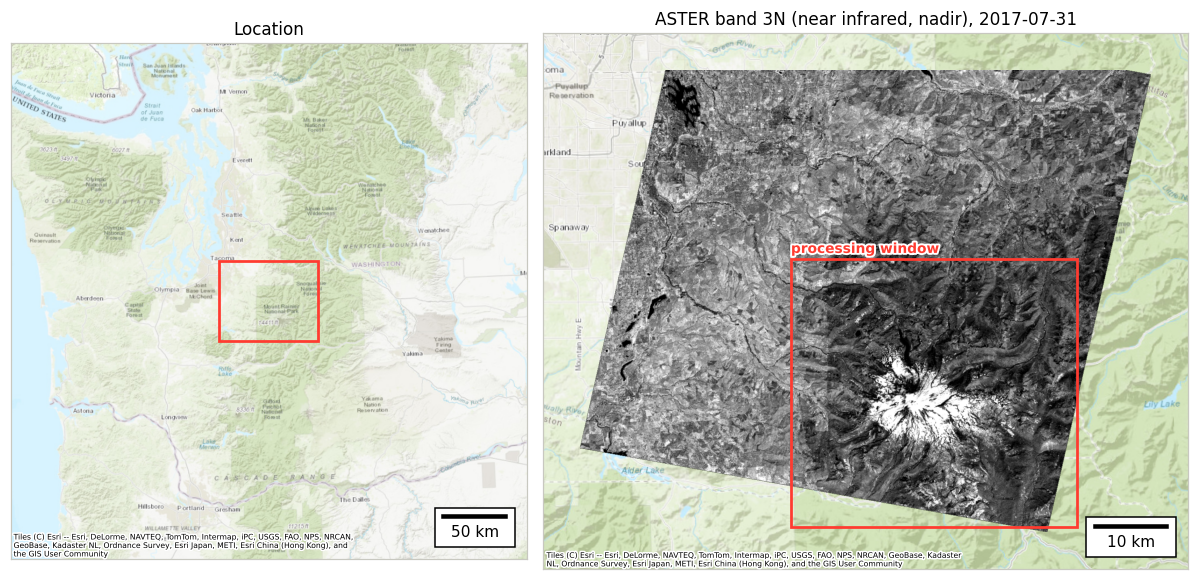
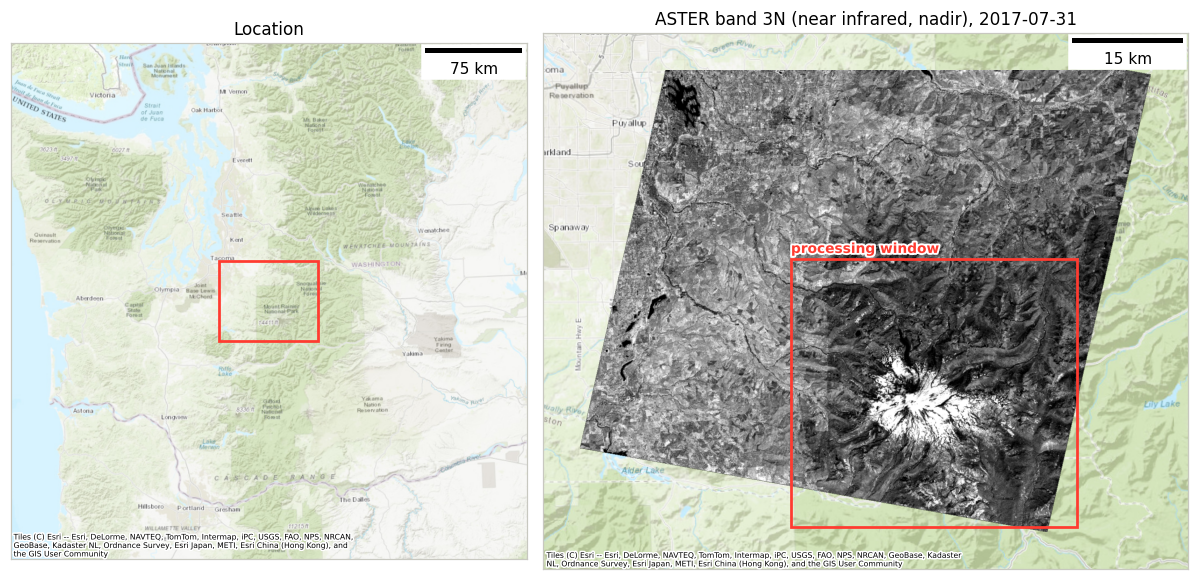
Add a scale bar to every map in the tutorials
The tutorials' own map figures (image pairs, DEM hillshades, the live
stereo map, the scene maps) had no scale bar, while asp-plot's report
figures do. They now all use asp-plot's convention, matplotlib-
scalebar's ScaleBar: meters for a raster on a map, from its pixel size
times any downsampling, and a fixed 1000-pixel bar for an image not
on a map yet (Tutorial 1's raw images), where matplotlib-scalebar
otherwise picks "750 px" for one panel and "1 kpx" for the other.

Checked by rendering each helper on Tutorials 1 and 2's outputs, and
by running Tutorial 1's stereo through run_stereo locally.

diff --git a/notebooks/utils.py b/notebooks/utils.py
@@ -5,8 +5,41 @@ import re
 from pathlib import Path
 
 
+def add_scale_bar(ax, fn, shown_width):
+    """A scale bar for a raster drawn in pixel coordinates, as asp-plot draws them.
+
+    `shown_width` is the width of the array as drawn, in pixels, so a
+    downsampled image gets the right scale. A raster on a map (one with a
+    projected CRS, here UTM) gets a bar in meters; an image that is not on a
+    map yet (a raw satellite image) gets a bar in its own pixels.
+    """
+    from matplotlib_scalebar.scalebar import ScaleBar
+    from osgeo import gdal
+
+    gdal.UseExceptions()
+    ds = gdal.Open(str(fn))
+    per_pixel = ds.RasterXSize / shown_width
+    srs = ds.GetSpatialRef()
+    if srs is not None and srs.IsProjected():
+        ax.add_artist(ScaleBar(abs(ds.GetGeoTransform()[1]) * srs.GetLinearUnits() * per_pixel))
+    else:
+        ax.add_artist(pixel_scale_bar(per_pixel))
+
+
+def pixel_scale_bar(per_pixel):
+    """A 1000-pixel scale bar for an image not on a map, `per_pixel` image pixels to a drawn one.
+
+    A fixed length and a plain label, so two images side by side get the same
+    bar ("1000 px", not "750 px" on one and "1 kpx" on the other).
+    """
+    from matplotlib_scalebar.scalebar import ScaleBar
+
+    return ScaleBar(per_pixel, units="px", dimension="pixel-length", fixed_value=1000, fixed_units="px",
+                    scale_formatter=lambda value, unit: f"{value} {unit}")
+
+
 def show_image_pair(left, right, titles, downsample=8):
-    """Show two images side by side in grayscale, downsampled for display.
+    """Show two images side by side in grayscale, downsampled for display, each with a scale bar.
 
     Uses asp_plot's `Raster` to read each image and `Plotter.plot_array` to
     draw it with a percentile contrast stretch.
@@ -19,6 +52,7 @@ def show_image_pair(left, right, titles, downsample=8):
     for ax, fn, title in zip(axes, (left, right), titles):
         image = Raster(fn, downsample=downsample).read_array()
         plotter.plot_array(ax, image, cmap="gray", add_cbar=False)
+        add_scale_bar(ax, fn, image.shape[1])
         ax.set_title(title)
         ax.set_axis_off()
     plt.tight_layout()
@@ -52,11 +86,12 @@ def show_dem_hillshade(dem_fn, title="Stereo DEM", hillshade_fn=None):
     import matplotlib.pyplot as plt
     from asp_plot.utils import Plotter, Raster
 
-    dem = Raster(dem_fn)
+    dem = Raster(dem_fn).read_array()
     plotter = Plotter()
     fig, ax = plt.subplots(figsize=(8, 7))
     plotter.plot_array(ax, multidirectional_hillshade(dem_fn, hillshade_fn), cmap="gray", add_cbar=False)
-    plotter.plot_array(ax, dem.read_array(), cmap="viridis", alpha=0.5, cbar_label="Elevation (m HAE)")
+    plotter.plot_array(ax, dem, cmap="viridis", alpha=0.5, cbar_label="Elevation (m HAE)")
+    add_scale_bar(ax, dem_fn, dem.shape[1])
     ax.set_title(title)
     ax.set_axis_off()
     plt.show()
@@ -74,7 +109,9 @@ def show_hillshades(dem_fns, titles):
     plotter = Plotter()
     fig, axes = plt.subplots(1, len(dem_fns), figsize=(5.5 * len(dem_fns), 5.5))
     for ax, fn, title in zip(axes, dem_fns, titles):
-        plotter.plot_array(ax, Raster(fn).hillshade(), cmap="gray", add_cbar=False)
+        shade = Raster(fn).hillshade()
+        plotter.plot_array(ax, shade, cmap="gray", add_cbar=False)
+        add_scale_bar(ax, fn, shade.shape[1])
         ax.set_title(title)
         ax.set_axis_off()
     plt.tight_layout()
@@ -638,6 +675,7 @@ def run_stereo(cmd, prefix, log, label="Stereo", step=4):
     from IPython.display import Image, display
     from matplotlib.colors import LightSource
     from matplotlib.figure import Figure
+    from matplotlib_scalebar.scalebar import ScaleBar
     from osgeo import gdal
 
     print(_one_line(cmd))
@@ -774,6 +812,8 @@ def run_stereo(cmd, prefix, log, label="Stereo", step=4):
                 ax.set_ylim(dx.shape[0], 0)
                 ax.set_xticks([])
                 ax.set_yticks([])
+                # As add_scale_bar: meters on the map grid, the image's own pixels otherwise.
+                ax.add_artist(ScaleBar(spacing) if on_map else pixel_scale_bar(step))
             buf = BytesIO()
             fig.savefig(buf, format="png", dpi=80)
             if plot is None:

diff --git a/scripts/docs_figures/make_scene_maps.py b/scripts/docs_figures/make_scene_maps.py
@@ -49,7 +49,7 @@ from matplotlib import patheffects
 import contextily as cx
 import numpy as np
 from matplotlib.patches import Rectangle
-from mpl_toolkits.axes_grid1.anchored_artists import AnchoredSizeBar
+from matplotlib_scalebar.scalebar import ScaleBar
 from osgeo import gdal
 
 gdal.UseExceptions()
@@ -185,7 +185,7 @@ def basemap(ax, srs, zoom="auto"):
     cx.add_basemap(ax, crs=srs, source=BASEMAP, zoom=zoom, attribution_size=5, zorder=0)
 
 
-def draw_scene(ax, path, srs, box, box_label, bar_km, title, bounds):
+def draw_scene(ax, path, srs, box, box_label, title, bounds):
     """The scene over the basemap, the processed area outlined, a scale bar."""
     a, extent = read_map(path)
     ax.set_xlim(bounds[0], bounds[2])
@@ -198,12 +198,12 @@ def draw_scene(ax, path, srs, box, box_label, bar_km, title, bounds):
     ax.annotate(box_label, (xmin, ymax), xytext=(0, 4), textcoords="offset points",
                 color=OUTLINE, fontsize=9, fontweight="bold", zorder=3,
                 path_effects=[patheffects.withStroke(linewidth=2.5, foreground="white")])
-    ax.add_artist(AnchoredSizeBar(ax.transData, bar_km * 1000, f"{bar_km} km", "lower right",
-                                  pad=0.5, borderpad=0.8, sep=4, frameon=True, size_vertical=bar_km * 1000 / 25))
+    # As the notebooks and asp-plot draw them (the axes are in meters).
+    ax.add_artist(ScaleBar(1))
     frame(ax, title)
 
 
-def draw_context(ax, srs, scene, half_km, bar_km):
+def draw_context(ax, srs, scene, half_km):
     """A map about 2 x half_km across, centered on the scene, with the scene's outline."""
     cxm, cym = (scene[0] + scene[2]) / 2, (scene[1] + scene[3]) / 2
     ax.set_xlim(cxm - half_km * 1000, cxm + half_km * 1000)
@@ -211,8 +211,8 @@ def draw_context(ax, srs, scene, half_km, bar_km):
     basemap(ax, srs)
     ax.add_patch(Rectangle((scene[0], scene[1]), scene[2] - scene[0], scene[3] - scene[1], fill=False,
                            edgecolor=OUTLINE, linewidth=1.8, zorder=3))
-    ax.add_artist(AnchoredSizeBar(ax.transData, bar_km * 1000, f"{bar_km} km", "lower right",
-                                  pad=0.5, borderpad=0.8, sep=4, frameon=True, size_vertical=bar_km * 1000 / 25))
+    # As the notebooks and asp-plot draw them (the axes are in meters).
+    ax.add_artist(ScaleBar(1))
     ax.set_aspect("equal")
     frame(ax, "Location")
 
@@ -230,10 +230,10 @@ def wv_maps(catids, work, out, name):
     bounds = union([read_map(p)[1] for p in paths], 2000)
     fig, axes = plt.subplots(1, len(catids) + 1, figsize=(4.4 * (len(catids) + 1), 5.2),
                              gridspec_kw={"width_ratios": [1] * (len(catids) + 1)})
-    draw_context(axes[0], WV_SRS, scenes, 150, 50)
+    draw_context(axes[0], WV_SRS, scenes, 150)
     for ax, catid, path in zip(axes[1:], catids, paths):
         date, angle = WV[catid][:2]
-        draw_scene(ax, path, WV_SRS, WV_SQUARE, "1 km", 2, f"{date}, {angle}\n{catid}", bounds)
+        draw_scene(ax, path, WV_SRS, WV_SQUARE, "1 km", f"{date}, {angle}\n{catid}", bounds)
     fig.tight_layout()
     save(fig, out, name)
 
@@ -243,8 +243,8 @@ def aster_map(aster_run, work, out):
     scene = union([read_map(path)[1]], 0)
     bounds = union([read_map(path)[1]], 5000)
     fig, axes = plt.subplots(1, 2, figsize=(11, 5.6), gridspec_kw={"width_ratios": [1, 1.25]})
-    draw_context(axes[0], ASTER_SRS, scene, 200, 50)
-    draw_scene(axes[1], path, ASTER_SRS, ASTER_WINDOW, "processing window", 10,
+    draw_context(axes[0], ASTER_SRS, scene, 200)
+    draw_scene(axes[1], path, ASTER_SRS, ASTER_WINDOW, "processing window",
                "ASTER band 3N (near infrared, nadir), 2017-07-31", bounds)
     fig.tight_layout()
     save(fig, out, "aster-scene-map")

diff --git a/ARCHITECTURE.md b/ARCHITECTURE.md
@@ -248,7 +248,7 @@ The no-chdir `DATA` pattern itself is an editing rule in `AGENTS.md`. Earlier it
 - Re-running the chdir cell after later cells produce subdirs compounds the chdir and breaks subsequent paths.
 - It hides what's actually happening. With explicit paths in every cell, the reader sees the layout.
 
-`notebooks/utils.py` holds the plotting helpers the notebooks call (`show_image_pair`, `show_dem_hillshade`, `show_hillshades`, `show_report_figures`), so cells show `asp-plot` calls without matplotlib boilerplate.
+`notebooks/utils.py` holds the plotting helpers the notebooks call (`show_image_pair`, `show_dem_hillshade`, `show_hillshades`, `show_report_figures`), so cells show `asp-plot` calls without matplotlib boilerplate. Every map they draw has a scale bar, as `asp-plot`'s own figures do (matplotlib-scalebar's `ScaleBar`, upper right): `add_scale_bar()` gives meters for a raster on a map (pixel size times any downsampling) and a fixed 1000-pixel bar for an image not on a map yet (Tutorial 1's raw images); `run_stereo`'s live map and the scene maps (`make_scene_maps.py`) use the same bar.
 
 It also holds the run helpers, which keep ASP's verbose output out of the notebook (all three tutorials; [ADR-0031](architecture/0031-status-lines-and-logs.md)):
 
